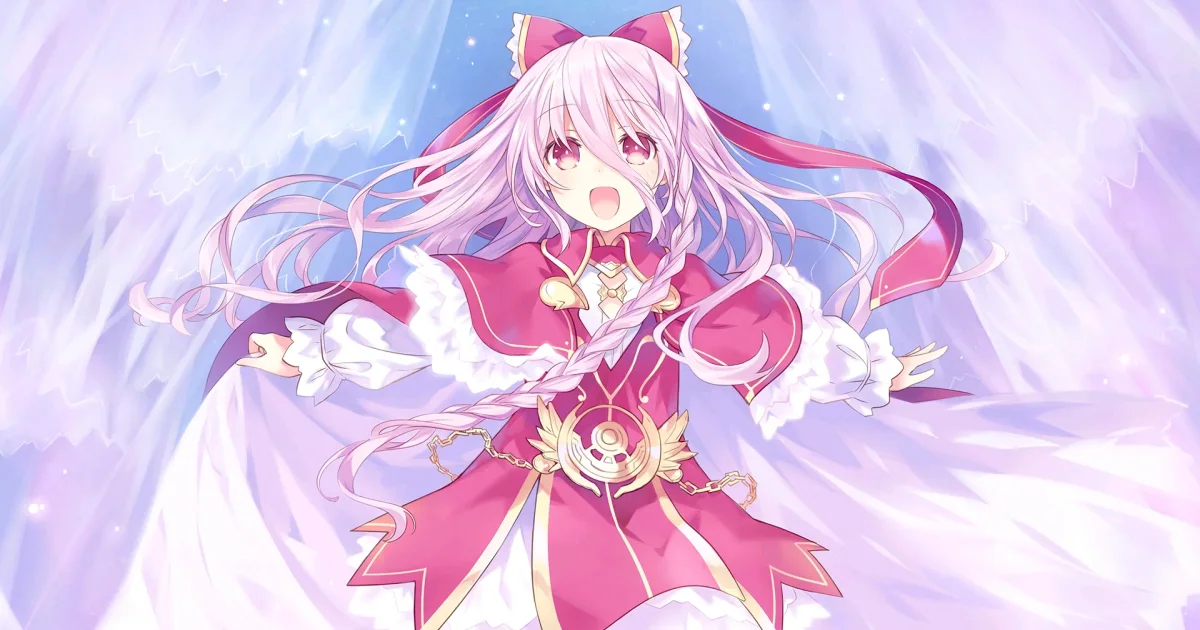
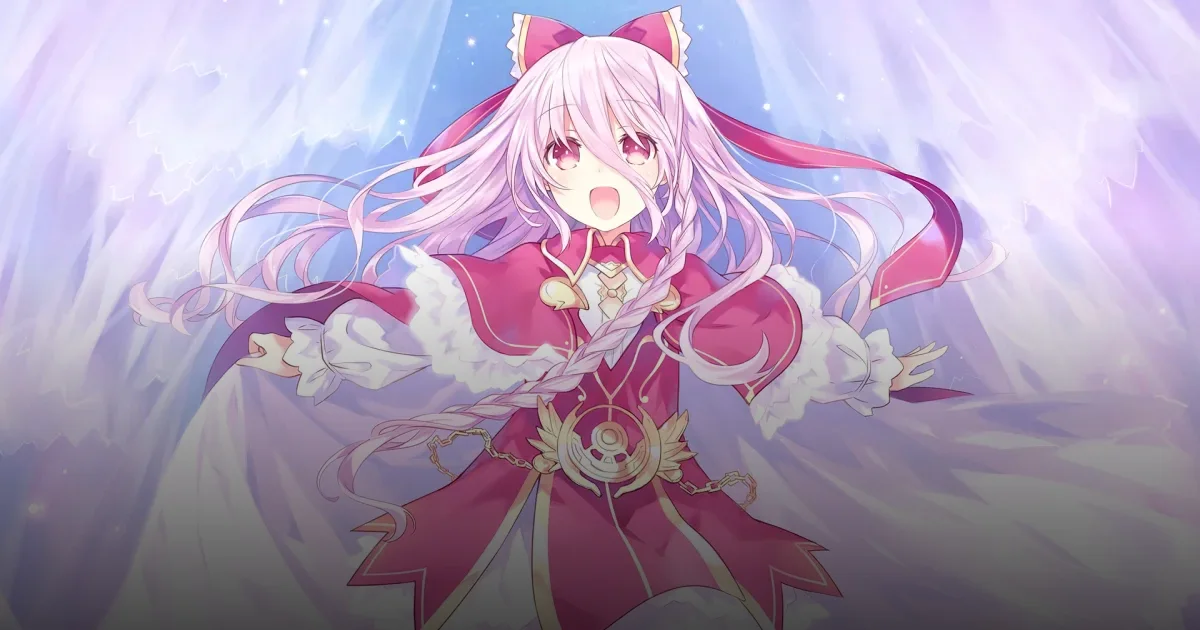
所有文章都配上二次元封面
- 17 篇文章从仓库已有的 desktop-banner / mobile-banner 里裁封面（1200x630 webp，attention 取景）
- 封面底部烘一层渐变暗角（0 → 62% 高度），保证首页大图上白字始终可读，不再靠卡片遮罩硬撑
- 剩下 CodeGraph-Skill 一篇没配（图用完了，且它是纯文档型 Skill，列表卡片无图也不违和）

diff --git a/src/content/posts/UnityGameObjectLayoutGroup.md b/src/content/posts/UnityGameObjectLayoutGroup.md
@@ -6,6 +6,7 @@ tags: [GitHub, Unity, UI]
 category: Unity
 author: NuoYan
 sourceLink: "https://github.com/nuoyanruoshui/UnityGameObjectLayoutGroup"
+image: "/images/covers/unitygameobjectlayoutgroup.webp"
 draft: false
 ---
 

diff --git a/src/content/posts/Unity-Excel-Importer.md b/src/content/posts/Unity-Excel-Importer.md
@@ -6,6 +6,7 @@ tags: [GitHub, Unity, 工具]
 category: Unity
 author: NuoYan
 sourceLink: "https://github.com/nuoyanruoshui/Unity-Excel-Importer"
+image: "/images/covers/unity-excel-importer.webp"
 draft: false
 ---
 

diff --git a/src/content/posts/UnityArchiveSystem.md b/src/content/posts/UnityArchiveSystem.md
@@ -6,6 +6,7 @@ tags: [GitHub, Unity, 存档]
 category: Unity
 author: NuoYan
 sourceLink: "https://github.com/nuoyanruoshui/UnityArchiveSystem"
+image: "/images/covers/unityarchivesystem.webp"
 draft: false
 ---
 

diff --git a/src/content/posts/DialogueSystem_SO.md b/src/content/posts/DialogueSystem_SO.md
@@ -6,6 +6,7 @@ tags: [GitHub, Unity, 剧情]
 category: Unity
 author: NuoYan
 sourceLink: "https://github.com/nuoyanruoshui/DialogueSystem_SO"
+image: "/images/covers/dialoguesystem_so.webp"
 draft: false
 ---
 

diff --git a/src/content/posts/UnityExtension.md b/src/content/posts/UnityExtension.md
@@ -6,6 +6,7 @@ tags: [GitHub, Unity, 工具库]
 category: Unity
 author: NuoYan
 sourceLink: "https://github.com/nuoyanruoshui/UnityExtension"
+image: "/images/covers/unityextension.webp"
 draft: false
 ---
 

diff --git a/src/content/posts/TimelineSystem.md b/src/content/posts/TimelineSystem.md
@@ -6,6 +6,7 @@ tags: [GitHub, Unity, 战斗]
 category: Unity
 author: NuoYan
 sourceLink: "https://github.com/nuoyanruoshui/TimelineSystem"
+image: "/images/covers/timelinesystem.webp"
 draft: false
 ---
 

diff --git a/src/content/posts/UGFExtensions.md b/src/content/posts/UGFExtensions.md
@@ -6,6 +6,7 @@ tags: [GitHub, Unity, 框架]
 category: Unity
 author: NuoYan
 sourceLink: "https://github.com/nuoyanruoshui/UGFExtensions"
+image: "/images/covers/ugfextensions.webp"
 draft: false
 ---
 

diff --git a/src/content/posts/QFExtension.md b/src/content/posts/QFExtension.md
@@ -6,6 +6,7 @@ tags: [GitHub, Unity, 框架]
 category: Unity
 author: NuoYan
 sourceLink: "https://github.com/nuoyanruoshui/QFExtension"
+image: "/images/covers/qfextension.webp"
 draft: false
 ---
 

diff --git a/src/content/posts/UnityDropdown.md b/src/content/posts/UnityDropdown.md
@@ -6,6 +6,7 @@ tags: [GitHub, Unity, UI]
 category: Unity
 author: NuoYan
 sourceLink: "https://github.com/nuoyanruoshui/UnityDropdown"
+image: "/images/covers/unitydropdown.webp"
 draft: false
 ---
 

diff --git a/src/content/posts/VirtualScroll.md b/src/content/posts/VirtualScroll.md
@@ -6,6 +6,7 @@ tags: [GitHub, Unity, UI]
 category: Unity
 author: NuoYan
 sourceLink: "https://github.com/nuoyanruoshui/VirtualScroll"
+image: "/images/covers/virtualscroll.webp"
 draft: false
 ---
 

diff --git a/src/content/posts/UnityTimer.md b/src/content/posts/UnityTimer.md
@@ -6,6 +6,7 @@ tags: [GitHub, Unity, 工具]
 category: Unity
 author: NuoYan
 sourceLink: "https://github.com/nuoyanruoshui/UnityTimer"
+image: "/images/covers/unitytimer.webp"
 draft: false
 ---
 

diff --git a/src/content/posts/TweenButton.md b/src/content/posts/TweenButton.md
@@ -6,6 +6,7 @@ tags: [GitHub, Unity, UI]
 category: Unity
 author: NuoYan
 sourceLink: "https://github.com/nuoyanruoshui/TweenButton"
+image: "/images/covers/tweenbutton.webp"
 draft: false
 ---
 
